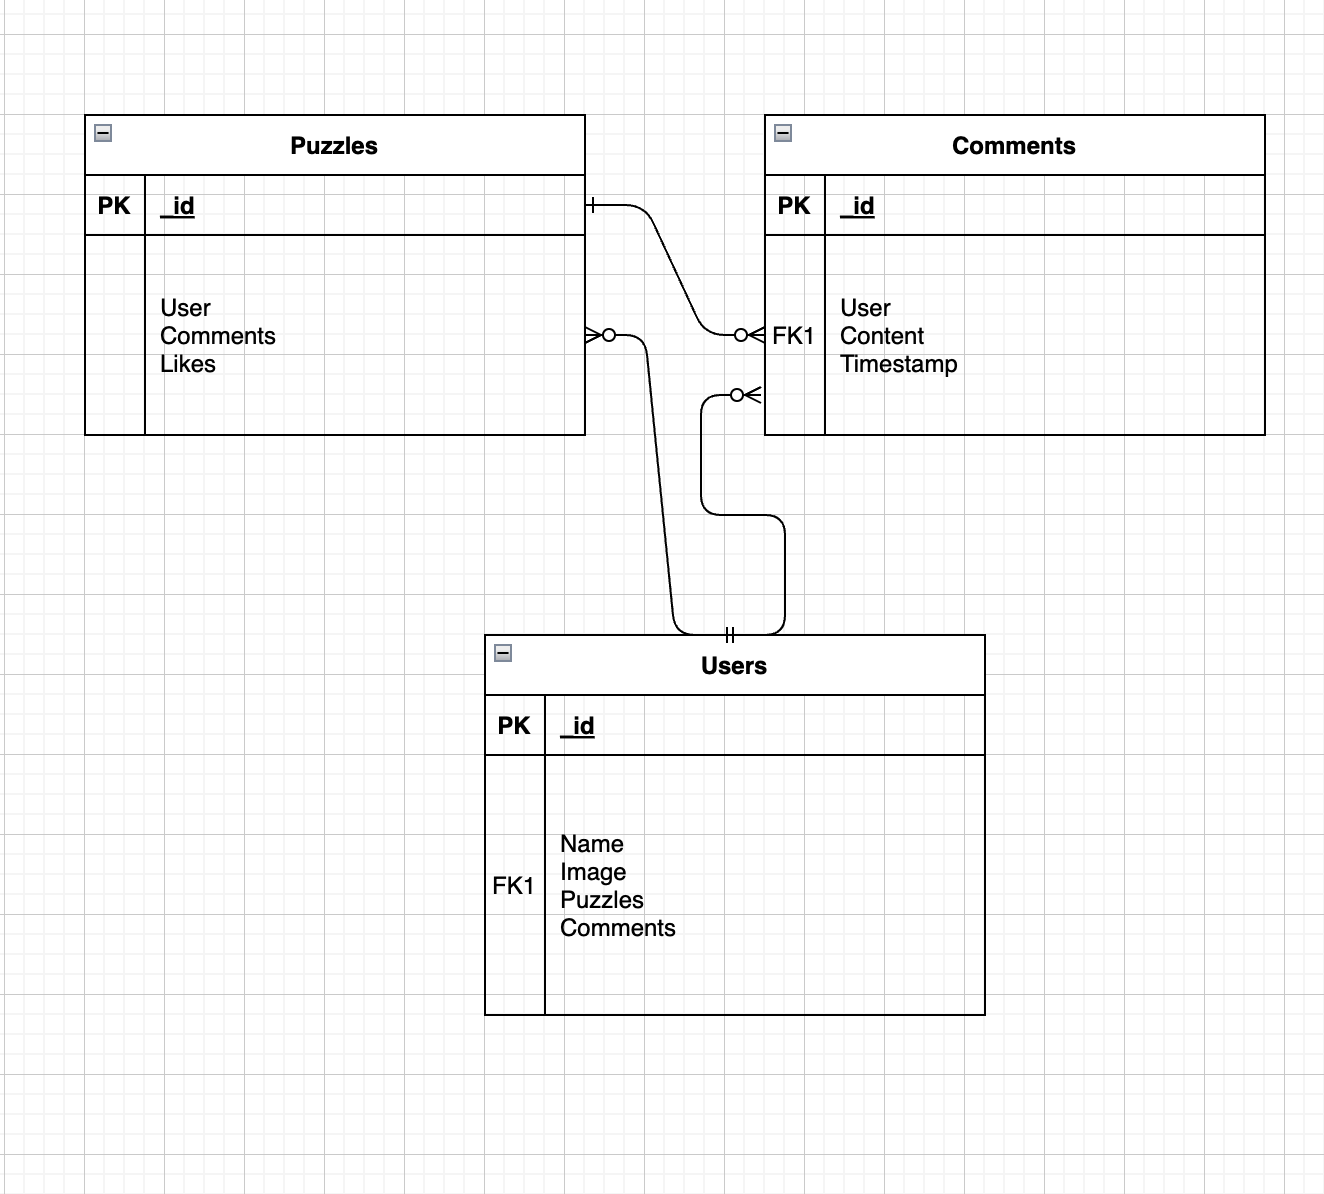
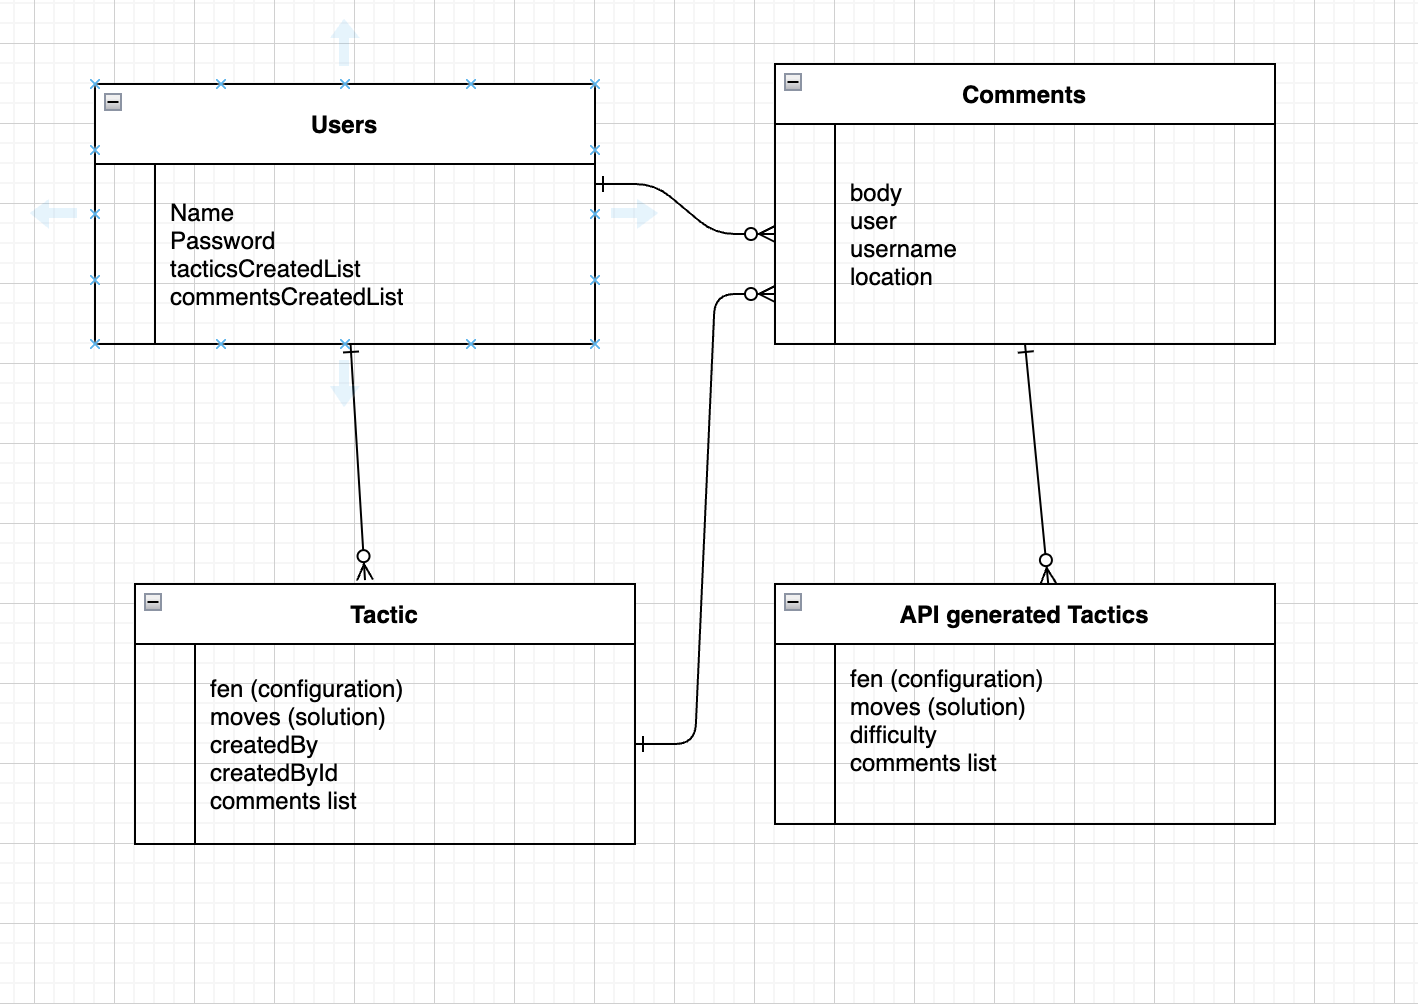
Readme updated

diff --git a/controllers/C-game.js b/controllers/C-game.js
@@ -270,7 +270,7 @@ router.post('/tactic/api/:id', (req, res) => {
     }
 })
 
-router.post('/tactic/user/:id/edit', (req, res) => {
+router.put('/tactic/user/:id/edit', (req, res) => {
     //get route placeholder for updating tactics
     Tactic.updateOne({_id : req.params.id} , {$set:{fen:req.body.fen , moves:req.body.moves.split(',')}}).then((result)=>{
         console.log('edit complete' , result)

diff --git a/README.md b/README.md
@@ -4,36 +4,35 @@
 
 Premise: Chess puzzle app where users can play other users, or API fetched, puzzles.
 
-
-#The User Story:
+# The User Story:
 AAU, I want to hone my chess skills by solving puzzles.
-AAU, I want to create my own puzzles for others to solve and enjoy.
-
+AAU, I want to create my own puzzles for others to solve or have fun with.
+AAU, I want to comment on other's puzzles and be part of a community.
 
 # The Wireframes:
 ![](Images/Wireframe_Board.png)
 
-#The ERD: 
-
-![ ](Images/ERD.png)
+# The ERD: 
+![](Images/ERD.png)
 
 # Route Table:
-
+![](Images/RouteTable.png)
 
 # Technologies Used:
-HTML, CSS, JavaScript, Canvas 
+HTML, CSS, JavaScript, MongoDB, Heroku
 
 # How To Use:
-Make moves on chess board, drag and drop. 
+Make moves on chess board, drag and drop.
+To create, follow directions and record your own puzzle.
 
 # MVP Requirements:
 Models - Users, user-generate puzzles, user-generated comments, API fetched puzzles, standard games.
-CReate - new puzzles. Update - existing puzzles, comments, user information. Delete - puzzles, comments.
-API to fetch puzzles from website.
+CReate - new puzzles, comments, users. Update - existing puzzles. Delete - puzzles, comments. Get, Post, Put, and Delete routes all hit at least once.
 MongoDB stores model data and user-generated content.
+API - Online tactics are generated by the Chess Puzzles api by KeeghanM. See here - https://rapidapi.com/KeeghanM/api/chess-puzzles/details
 
-# Stretch goals / ICE BOX:
-voice-to-move logic using speech processing api.
-
-
-
+# Future Developments
+Have 'replay moves' function on tactic edits.
+Minor bug fixes.
+Chess board logic reformatting for readability.
+Score tracking - attempts/fails/etc
